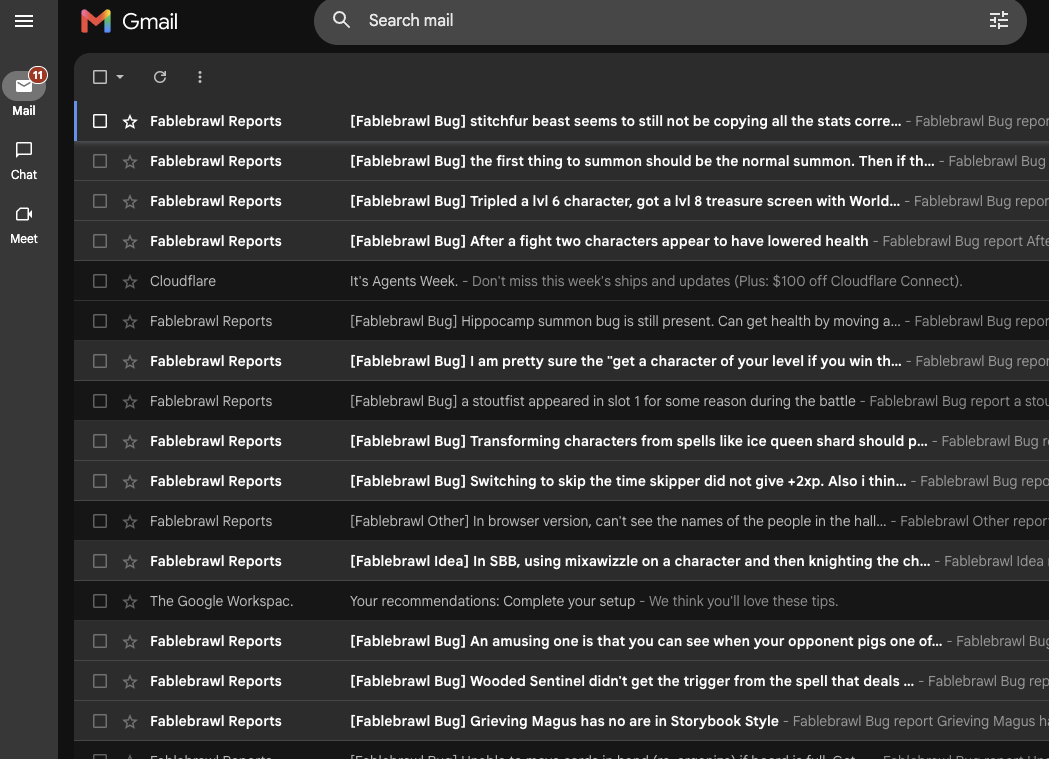
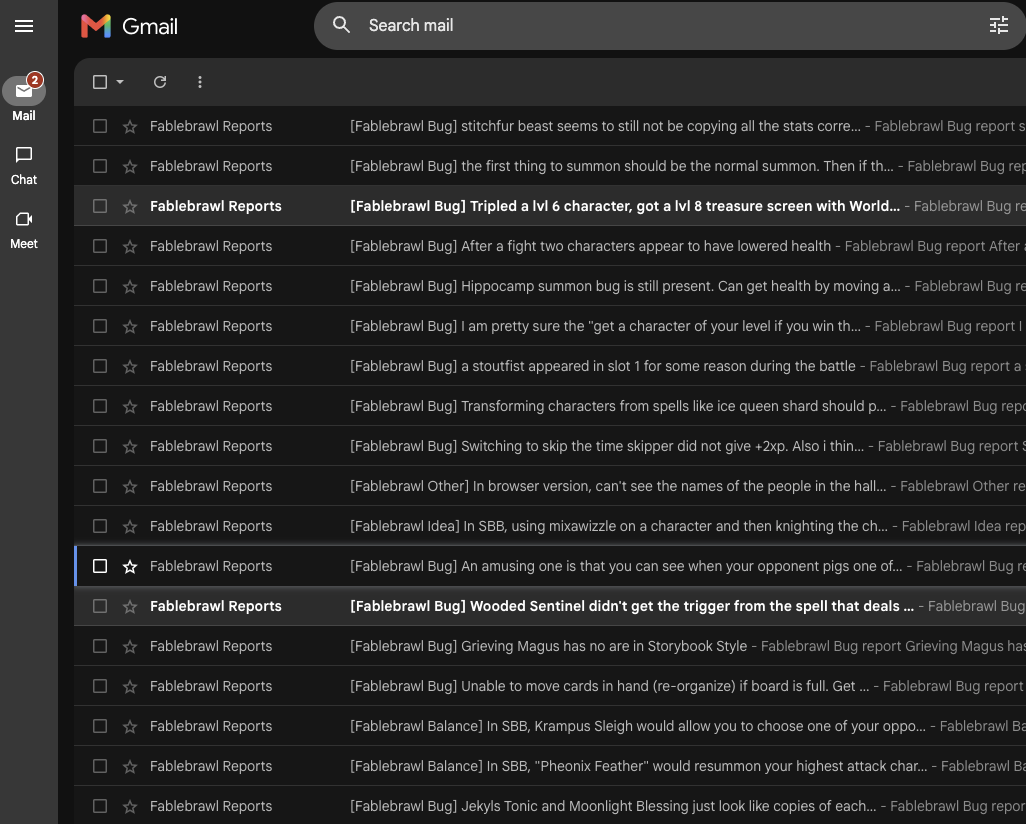
Sync fresh FableBrawl images (#21)
Reconcile all current Google Doc images, replace stale or altered captures, and add the missing AI-training screenshot.

diff --git a/src/assets/site.css b/src/assets/site.css
@@ -66,9 +66,6 @@ body.image-lightbox-open { overflow: hidden; }
 .player-reactions img { display: block; width: 100%; border: 1px solid #303038; border-radius: .4rem; background: #1e1f22; }
 .video-embed { overflow: hidden; width: min(68rem, calc(100vw - 2.5rem)); aspect-ratio: 16 / 9; margin: 2.75rem 0 2.75rem 50%; transform: translateX(-50%); border: 1px solid var(--line); border-radius: .4rem; background: #111; }
 .video-embed iframe { display: block; width: 100%; height: 100%; border: 0; }
-.post-media-crop { overflow: hidden; border: 1px solid var(--line); border-radius: .4rem; background: #111; }
-.post-media-crop img { display: block; width: 100%; border: 0; border-radius: 0; }
-.post-media-crop-inbox { aspect-ratio: 1049 / 285; }
 .post-figure-compact { width: min(100%, 20rem); margin-inline: auto; }
 .ai-opponents { width: min(54rem, calc(100vw - 2.5rem)); margin: 2.75rem 0 2.75rem 50%; padding: 1.1rem; transform: translateX(-50%); border: 1px solid var(--line); border-radius: .75rem; background: #17110e; color: #fff8ed; }
 .ai-opponents-heading { display: flex; justify-content: space-between; gap: 1rem; align-items: baseline; margin-bottom: 1rem; font-family: ui-sans-serif, system-ui, sans-serif; }

diff --git a/src/posts/vibe-coding-my-favorite-defunct-game.md b/src/posts/vibe-coding-my-favorite-defunct-game.md
@@ -126,9 +126,7 @@ Speaking of: **voice** – have you joined the voice revolution yet? While I sti
 The most “factory-like” or at least “production-line” aspect of my humble software restaurant was my bug reporting and resolution workflow. I knowingly shipped the game in a barely working state, because even as such I expected some people would want to play it, it was still fun, and we could collaboratively iron out the game engine together – rather than relying on me laboriously testing different interactions. Over the course of ~3 days, we received ~100 bug reports – at first in Discord messages but eventually via an in-app reporting flow that also serialized the game state in the report. After about a day of responding to emails myself, I realized about 90% of the time, I was just copying and pasting the report into the coding agents verbatim and so built a Claude Code routine where every hour it would read the bug reports from [hello@fablebrawl.com](mailto:hello@fablebrawl.com) and automatically resolve them as long as they were low- to medium-risk and didn’t have any ambiguity.<sup class="footnote-ref"><a id="fnref-8" href="#fn-8" aria-label="Read footnote 8">8</a></sup> The community seemed to really like how quickly their issues were addressed (average resolution time of ~3h), and even received an agent-written email explaining the resolution as a sort of checksum to ensure we fixed it correctly.
 
 <figure class="post-figure post-figure-wide">
-  <div class="post-media-crop post-media-crop-inbox">
-    <img src="/assets/fablebrawl-bug-inbox.png" alt="Gmail inbox showing the top unread FableBrawl bug reports">
-  </div>
+  <img src="/assets/fablebrawl-bug-inbox.png" alt="Gmail inbox showing the current FableBrawl bug-report queue">
   <figcaption>The top of the bug-report queue.</figcaption>
 </figure>
 
@@ -145,6 +143,10 @@ The most “factory-like” or at least “production-line” aspect of my humbl
 </div>
 
 The one frustration experience I had was using the coding agents to improve the in-game AI opponent’s decision-making. While the “out-of-the-box” (e.g. no customization) performance was significantly better than the original game, it was nowhere near the skill of a top player. An adult human who learned the basic game mechanics could probably beat the in-game AIs within 30-45 minutes; the in-game AI has no chance of ever getting close to beating a top player that has put hundreds-thousands of hours into the game. I tried a few things: I talked to the coding agents about what I observed the in-game AIs doing poorly and this was able to improve average placement by ~0.4 points (for context, the game is 8-player, so 4.5 is an average placement). I tried ~10 times to steer the coding agents to make some kind of RL environment where the in-game AIs could play against each other and tune their weights; this failed horribly even after many scripts and hundreds of hours of wall time. Fundamentally, I think the game’s state space is too large to be “vibe-trained” on.<sup class="footnote-ref"><a id="fnref-9" href="#fn-9" aria-label="Read footnote 9">9</a></sup> I even tried meaningfully reducing the search space by trying to improve the in-game AI for a single one of the game’s 44 unique heroes, but even that didn’t work, and I didn’t care enough to more precisely define the learning problem. There’s a chance too that OpenAI/Anthropic are intentionally making their public-facing model APIs worse at writing machine learning code due to competitive concerns.<sup class="footnote-ref"><a id="fnref-10" href="#fn-10" aria-label="Read footnote 10">10</a></sup>
+
+<figure class="post-figure post-figure-wide">
+  <img src="/assets/fablebrawl-ai-training.png" alt="FableBrawl AI training dashboard showing the stopped experiment and held-out evaluation results">
+</figure>
 
 A few final thoughts for other aspiring software restauranteurs:
 
@@ -166,7 +168,7 @@ The most interesting part of the community response was the guttural rejection o
 
 <figure class="post-figure post-figure-compact">
   <img src="/assets/fablebrawl-ai-art-reaction.png" alt="A Discord user asks who did the art for FableBrawl">
-  <figcaption>The most revealing question in the community response.</figcaption>
+  <figcaption>The very first question in my game’s Discord #general.</figcaption>
 </figure>
 
 <h3 id="most-of-my-users-were-bots">Most of my users were bots <a class="section-permalink" href="#most-of-my-users-were-bots" aria-label="Link to Most of my users were bots">#</a></h3>
